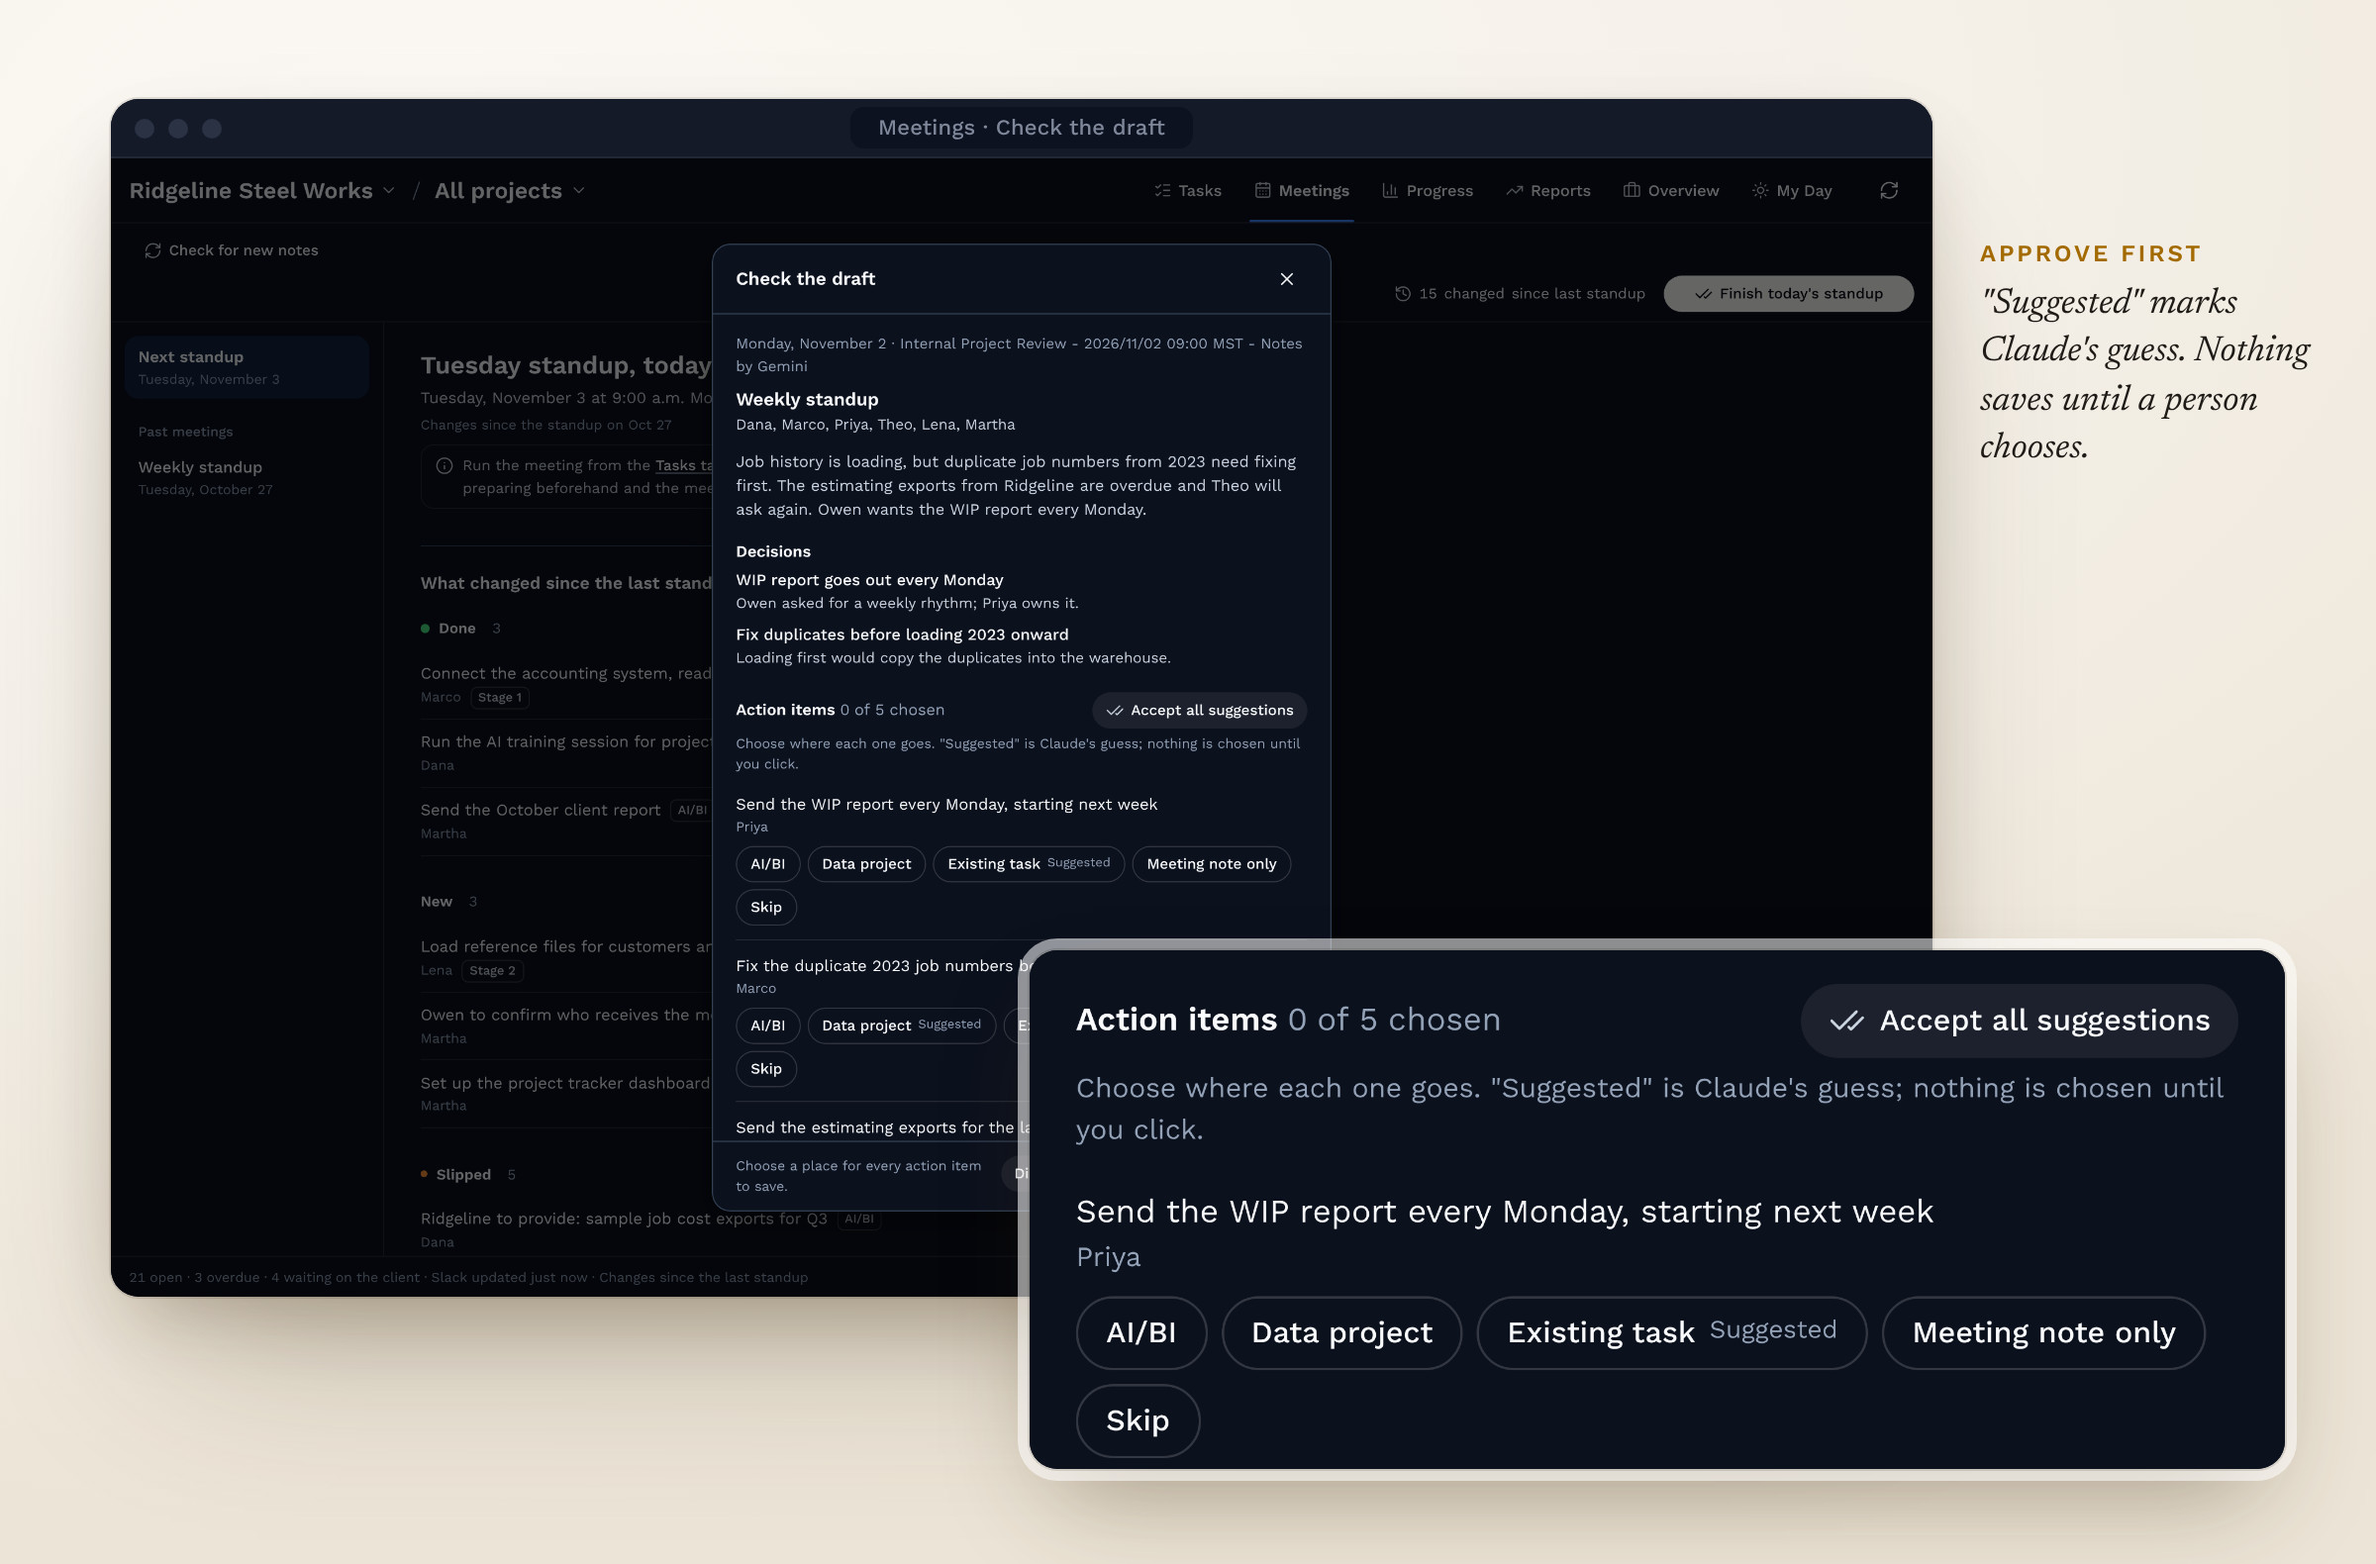
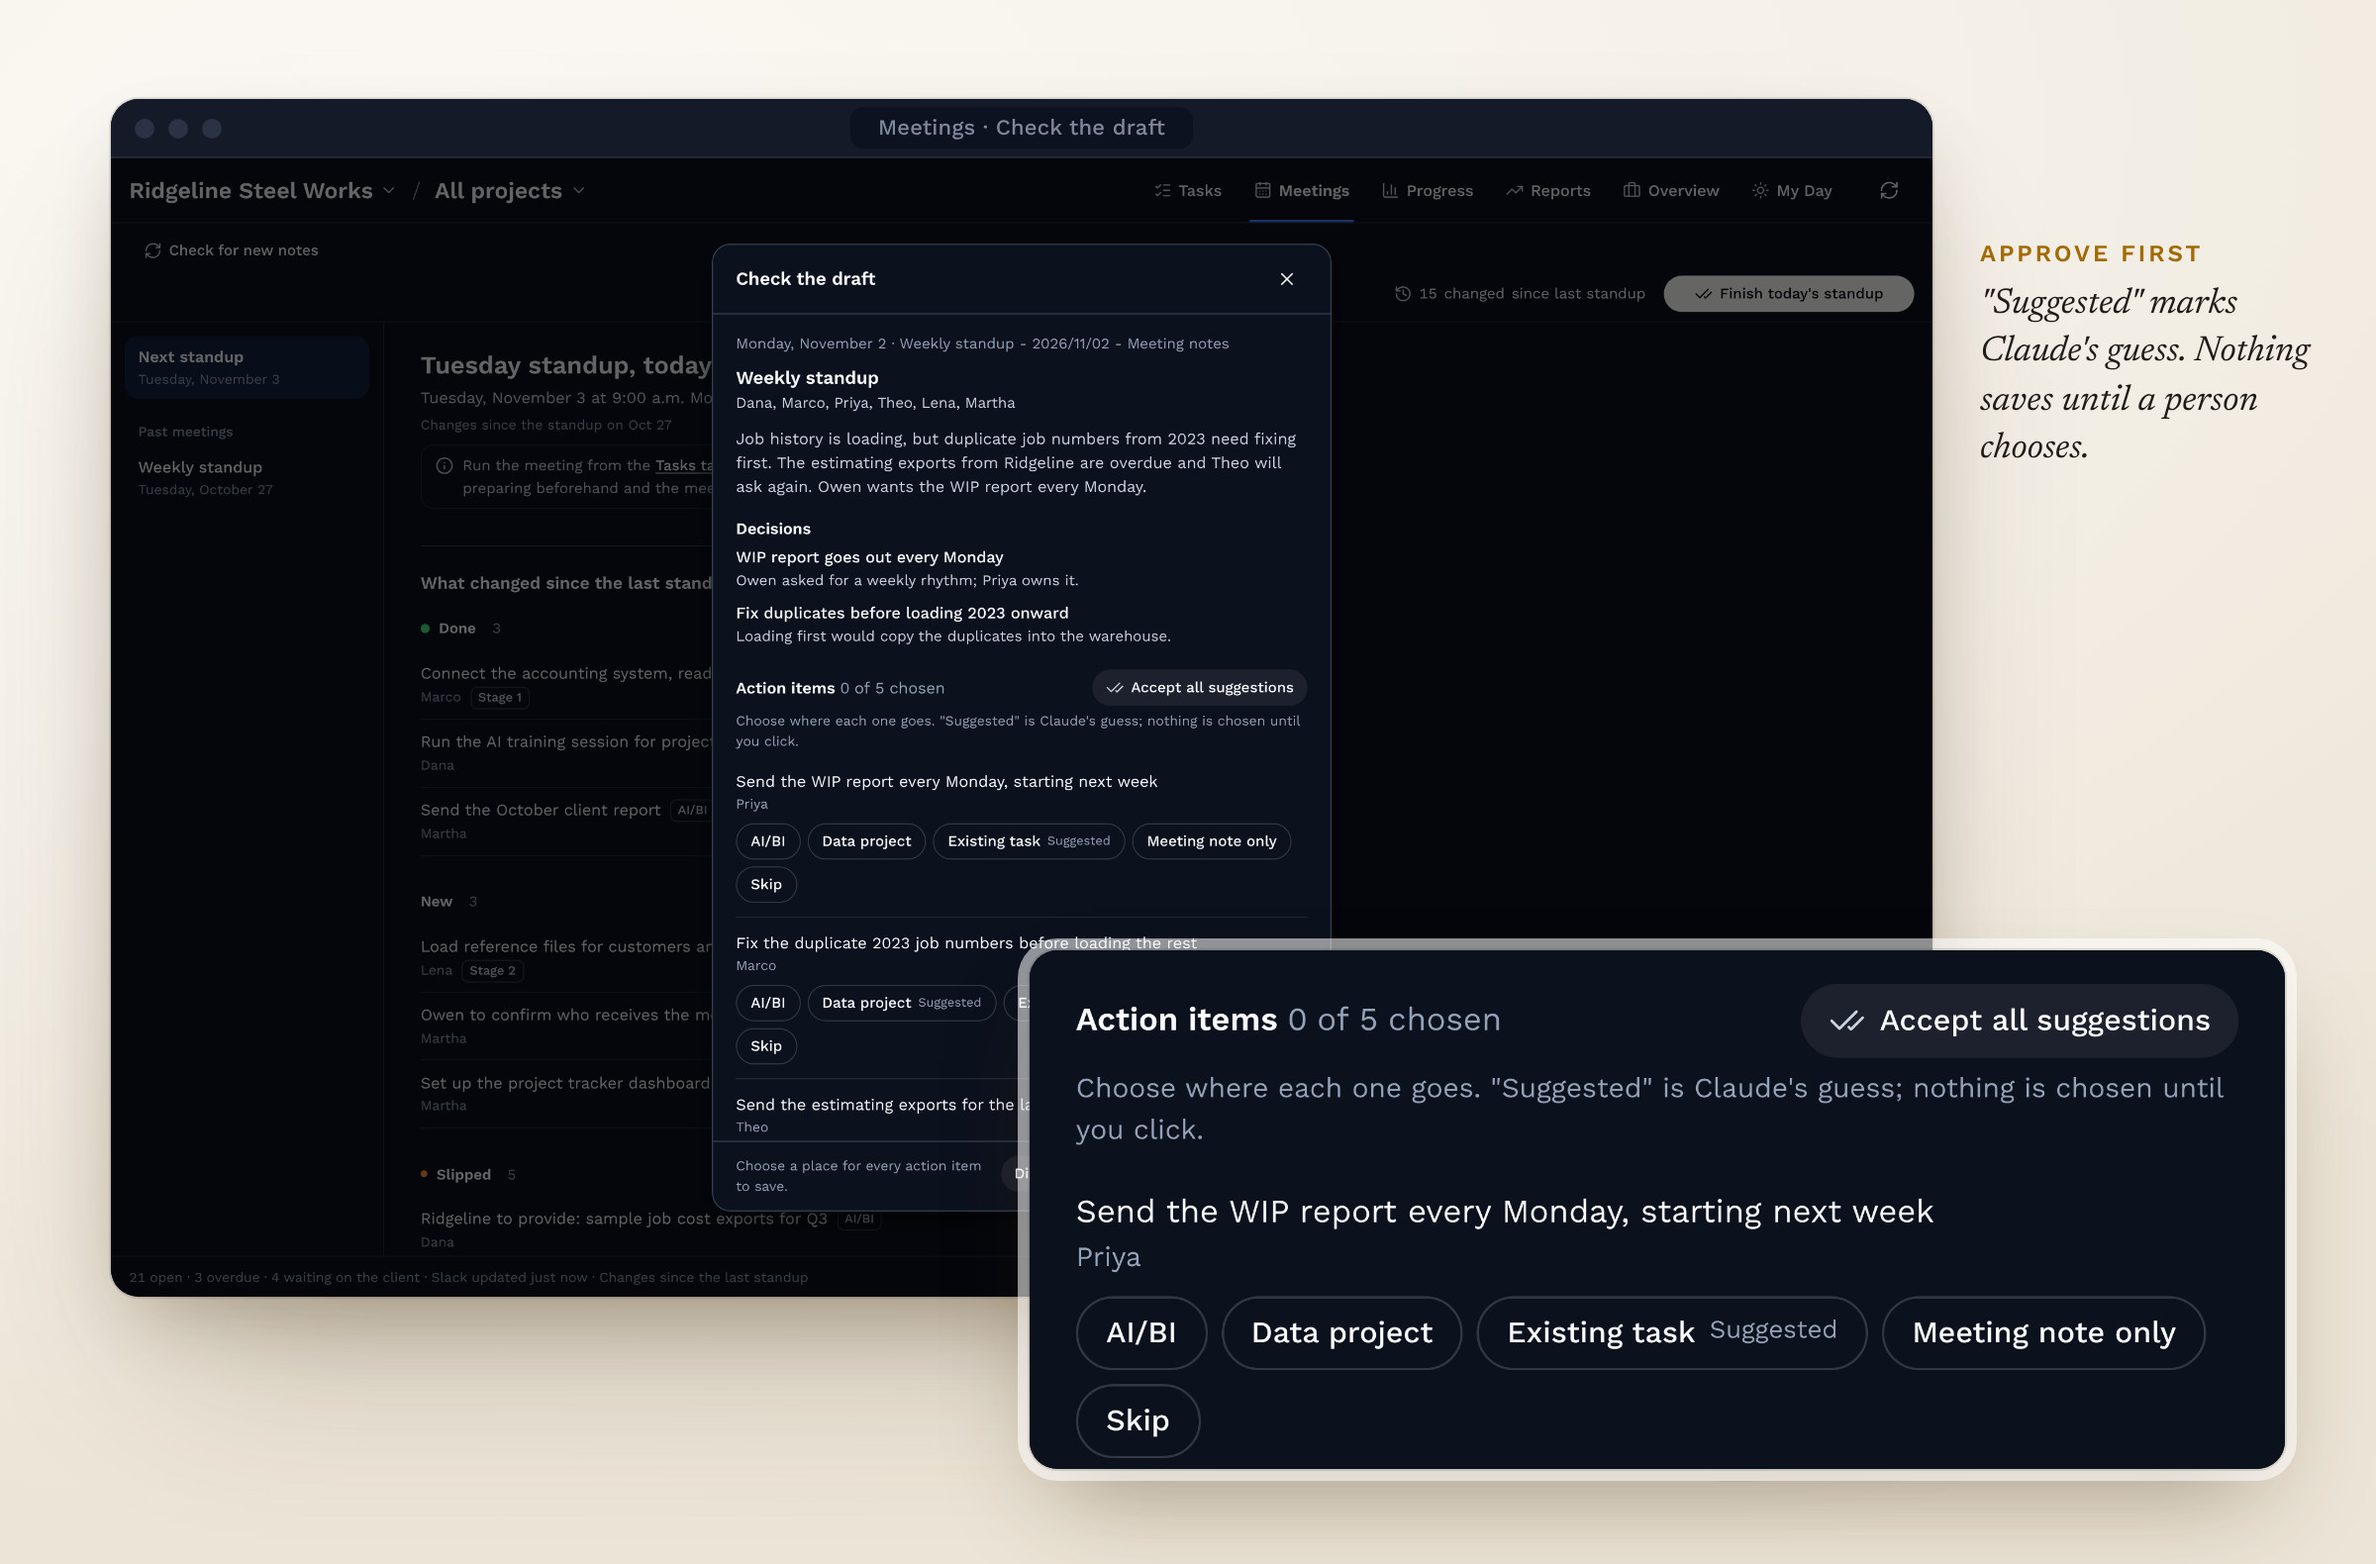
Update prototype demo copy and meeting image
- Rename demo meeting notes from "Internal Project Review / Gemini" to
  "Weekly standup / Meeting notes" throughout the prototype
- Update cs-dash-07-meetings.jpg

Changed region(s): [[0.3125, 0.2171, 0.5625, 0.7443], [0.4688, 0.2171, 0.5, 0.2481]]

diff --git a/assets/demos/client-dashboard.html b/assets/demos/client-dashboard.html
@@ -1587,7 +1587,7 @@ const DEMO = (() => {
       { key: "data", id: "F0DEMODATA", title: "Data project", url: "", groupBy: "stage", strip: STRIP.data, columns: ["stage", "assignee", "due", "priority", "status"], color: "teal",
         stages: { "Stage 1": { name: "Foundation and connectivity", weeks: "Weeks 1 to 3" }, "Stage 2": { name: "Job history and estimating files", weeks: "Weeks 3 to 6" }, "Stage 3": { name: "Shop production system", weeks: "Weeks 5 to 9" }, "Stage 4": { name: "Accounting and handover", weeks: "Weeks 9 to 12" } } },
     ],
-    meeting: { title: "Tuesday standup", weekday: 2, time: "9:00 a.m. Mountain", source: "Meeting notes in the Services folder in Drive", notesMatch: ["Internal Project Review"], notesFolder: "demo-folder" },
+    meeting: { title: "Tuesday standup", weekday: 2, time: "9:00 a.m. Mountain", source: "Meeting notes in the project folder in Drive", notesMatch: ["Weekly standup"], notesFolder: "demo-folder" },
     /* Earlier standups, stored as counts for each project (sample). The Progress tab adds the live point. */
     history: [
       { at: off(-28), lists: { data: { scope: 12, done: 0, open: 12, overdue: 0, slipped: 0, owed: 1 }, aibi: { scope: 2, done: 0, open: 2, overdue: 0, slipped: 0, owed: 0 } } },
@@ -1643,9 +1643,9 @@ const DEMO = (() => {
   const watchers = new Set(); let recN = 100;
   const pushLists = () => watchers.forEach((w) => setTimeout(() => w.cb({ type: "data", result: { payload: { result: csv(w.listId) }, cache: { storedAt: Date.now() } } }), 250));
   const notes = [
-    { id: "demo-note-new", title: `Internal Project Review - ${slash(-1)} 09:00 MST - Notes by Gemini`, mimeType: "application/vnd.google-apps.document", viewUrl: "" },
-    { id: "demo-note-0", title: `Internal Project Review - ${slash(-7)} 09:00 MST - Notes by Gemini`, mimeType: "application/vnd.google-apps.document", viewUrl: "" },
-    { id: "demo-note-old", title: `Internal Project Review - ${slash(-30)} 09:00 MST - Notes by Gemini`, mimeType: "application/vnd.google-apps.document", viewUrl: "" },
+    { id: "demo-note-new", title: `Weekly standup - ${slash(-1)} - Meeting notes`, mimeType: "application/vnd.google-apps.document", viewUrl: "" },
+    { id: "demo-note-0", title: `Weekly standup - ${slash(-7)} - Meeting notes`, mimeType: "application/vnd.google-apps.document", viewUrl: "" },
+    { id: "demo-note-old", title: `Weekly standup - ${slash(-30)} - Meeting notes`, mimeType: "application/vnd.google-apps.document", viewUrl: "" },
   ];
   const mcp = {
     watchTool(server, tool, args, cb) { const w = { listId: args.list_id, cb }; watchers.add(w); setTimeout(() => cb({ type: "data", result: { payload: { result: csv(args.list_id) }, cache: { storedAt: Date.now() } } }), 350); return () => watchers.delete(w); },
@@ -1663,7 +1663,7 @@ const DEMO = (() => {
         pushLists(); return { payload: { ok: true, record_id: id } };
       }
       if (tool === "search_files") { await wait(500); return { payload: { files: notes } }; }
-      if (tool === "read_file_content") { await wait(400); return { payload: { fileContent: `Internal Project Review, ${slash(-1)}\n\nSummary\nThe team reviewed both lists. Job history is loading, with duplicate job numbers in 2023 to sort out. The estimating exports from Ridgeline are now overdue. Owen asked whether the WIP report can go out every Monday.\n\nNext steps\n- Priya: send the WIP report every Monday starting next week\n- Marco: fix the duplicate 2023 job numbers before loading the rest\n- Theo: ask Kate again for the estimating exports, by Friday\n- Lena: book a call with Owen on the activity codes\n- Martha: order lunch for the training day` } }; }
+      if (tool === "read_file_content") { await wait(400); return { payload: { fileContent: `Weekly standup, ${slash(-1)}\n\nSummary\nThe team reviewed both lists. Job history is loading, with duplicate job numbers in 2023 to sort out. The estimating exports from Ridgeline are now overdue. Owen asked whether the WIP report can go out every Monday.\n\nNext steps\n- Priya: send the WIP report every Monday starting next week\n- Marco: fix the duplicate 2023 job numbers before loading the rest\n- Theo: ask Kate again for the estimating exports, by Friday\n- Lena: book a call with Owen on the activity codes\n- Martha: order lunch for the training day` } }; }
       return { payload: {} };
     },
   };
@@ -3404,7 +3404,7 @@ $("#records").addEventListener("drop", (e) => {
 });
 
 /* =====================================================================
-   20. MEETING NOTES: find new Gemini notes in Drive for this client's
+   20. MEETING NOTES: find new meeting notes in Drive for this client's
    meeting, have Claude draft the summary, decisions and action items, and
    save only what a person approves. Runs on a click, never on load.
    ===================================================================== */
@@ -3459,7 +3459,7 @@ async function draftNotes(f) {
   let text = "";
   try { const p = payloadOf(await m.callTool(DRIVE, "read_file_content", { fileId: f.id })); text = typeof p === "string" ? p : (p?.fileContent || ""); }
   catch (e) { closeDialog(); toast(connectorMsg(e, DRIVE)); return; }
-  // Gemini's summary, decisions, next steps and details come before the transcript; that's what's needed.
+  // The notes' summary, decisions, next steps and details come before the transcript; that's what's needed.
   const cut = text.search(/\n#\s*\*{0,2}[^\n]{0,12}Transcript/); if (cut > 0) text = text.slice(0, cut);
   text = text.slice(0, 40000);
   step("Drafting the summary, decisions and action items…");
